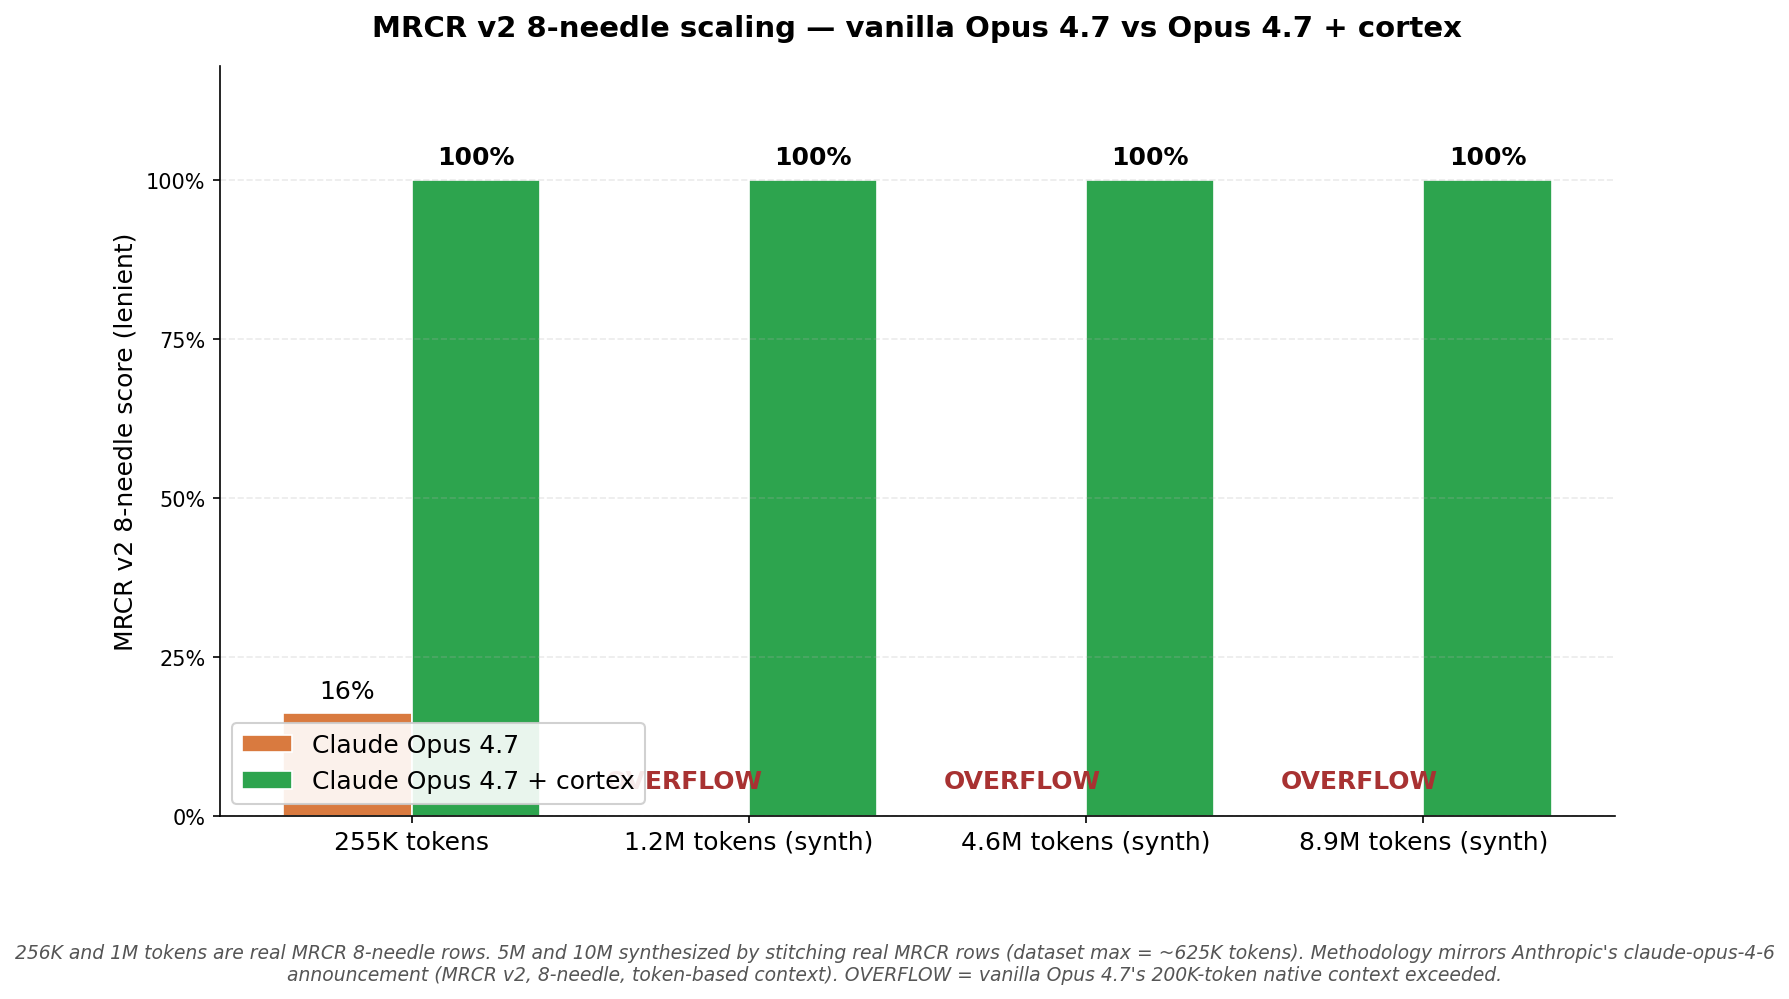
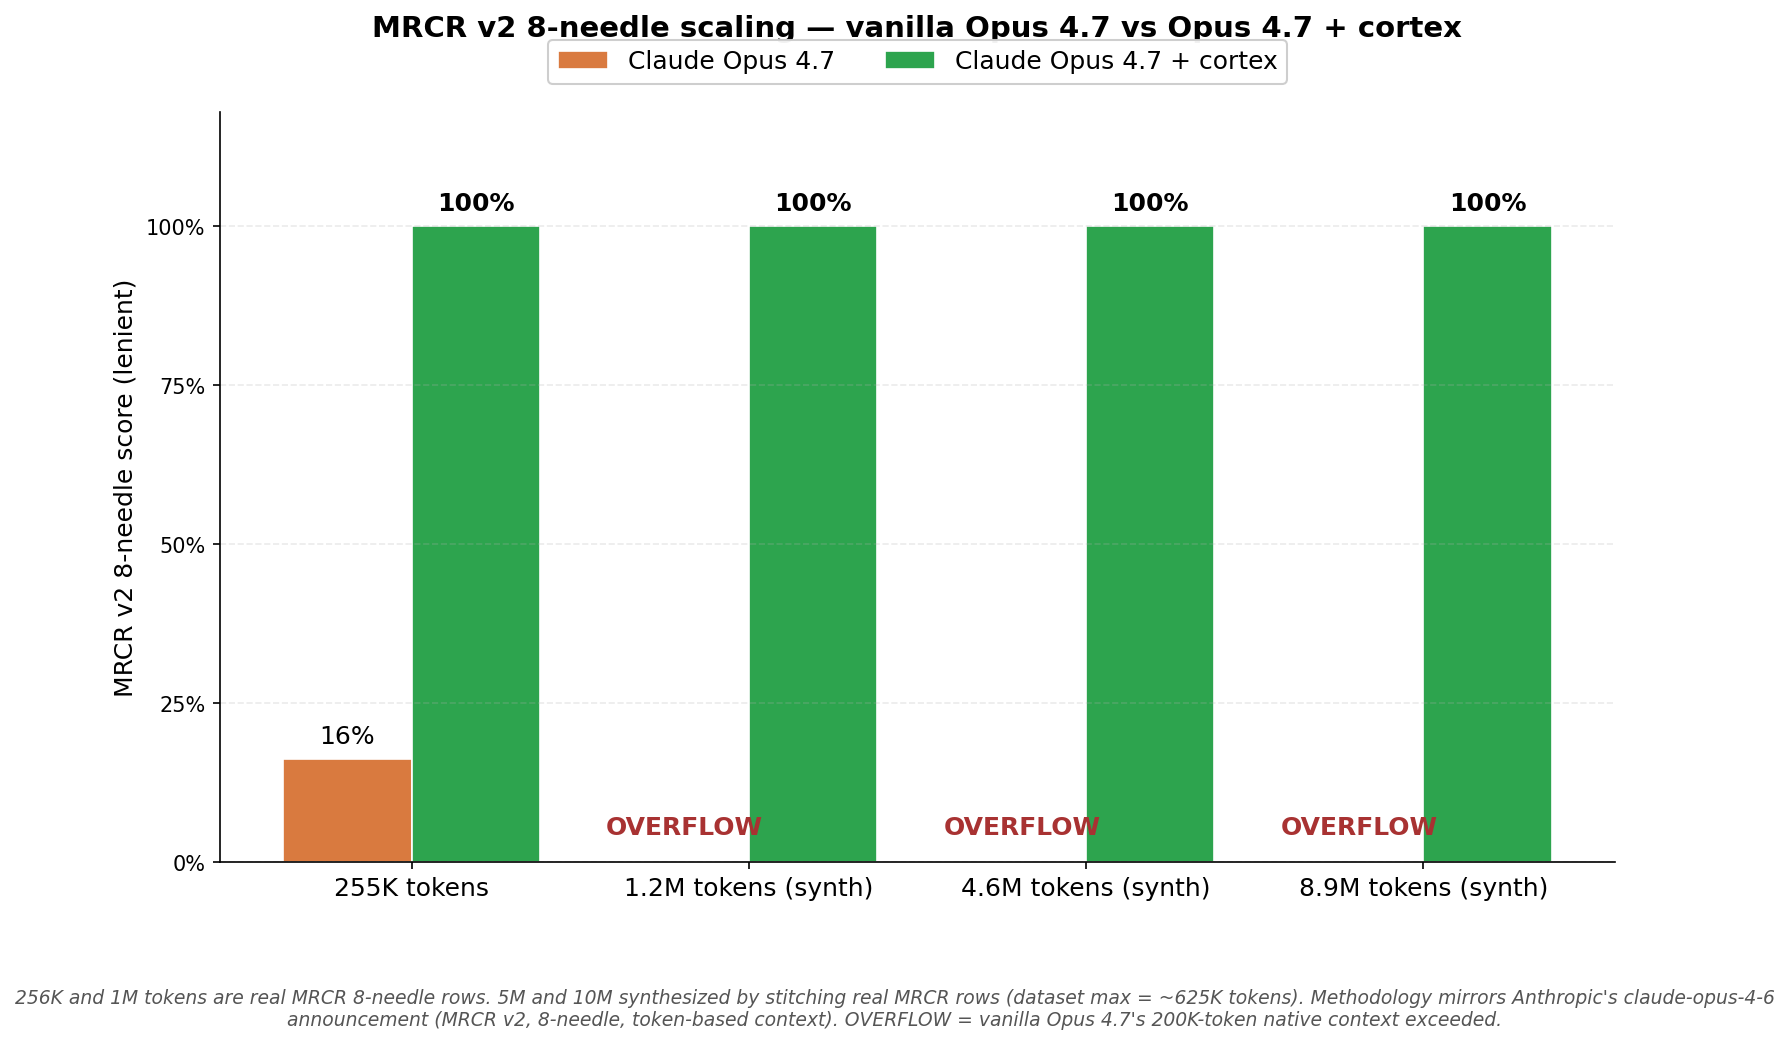
chart: move legend above plot to uncover 256K vanilla bar
Legend at lower-left was sitting on top of the 256K vanilla 16% bar.
Moved to lower-center anchored at (0.5, 1.02) above the plot, ncol=2 so
it's a single horizontal row between the title and the bars. Title pad
bumped 14 → 36 to make room.

diff --git a/bench/pilot_opus/make_chart_v3.py b/bench/pilot_opus/make_chart_v3.py
@@ -95,8 +95,11 @@ def main(src: str = "results/opus_vs_cortex/mrcr_v3.json",
     ax.set_yticklabels(["0%", "25%", "50%", "75%", "100%"])
     ax.set_ylabel("MRCR v2 8-needle score (lenient)", fontsize=12)
     ax.set_title("MRCR v2 8-needle scaling — vanilla Opus 4.7 vs Opus 4.7 + cortex",
-                 fontsize=14, fontweight="bold", pad=14)
-    ax.legend(loc="lower left", framealpha=0.9, fontsize=12, frameon=True)
+                 fontsize=14, fontweight="bold", pad=36)
+    # Legend above the chart (between title and bars) — keeps it off the
+    # 256K vanilla 16% bar at lower-left and the cortex 100% bars elsewhere.
+    ax.legend(loc="lower center", bbox_to_anchor=(0.5, 1.02), ncol=2,
+              framealpha=0.95, fontsize=12, frameon=True)
     ax.grid(axis="y", alpha=0.25, linestyle="--")
     ax.spines["top"].set_visible(False)
     ax.spines["right"].set_visible(False)